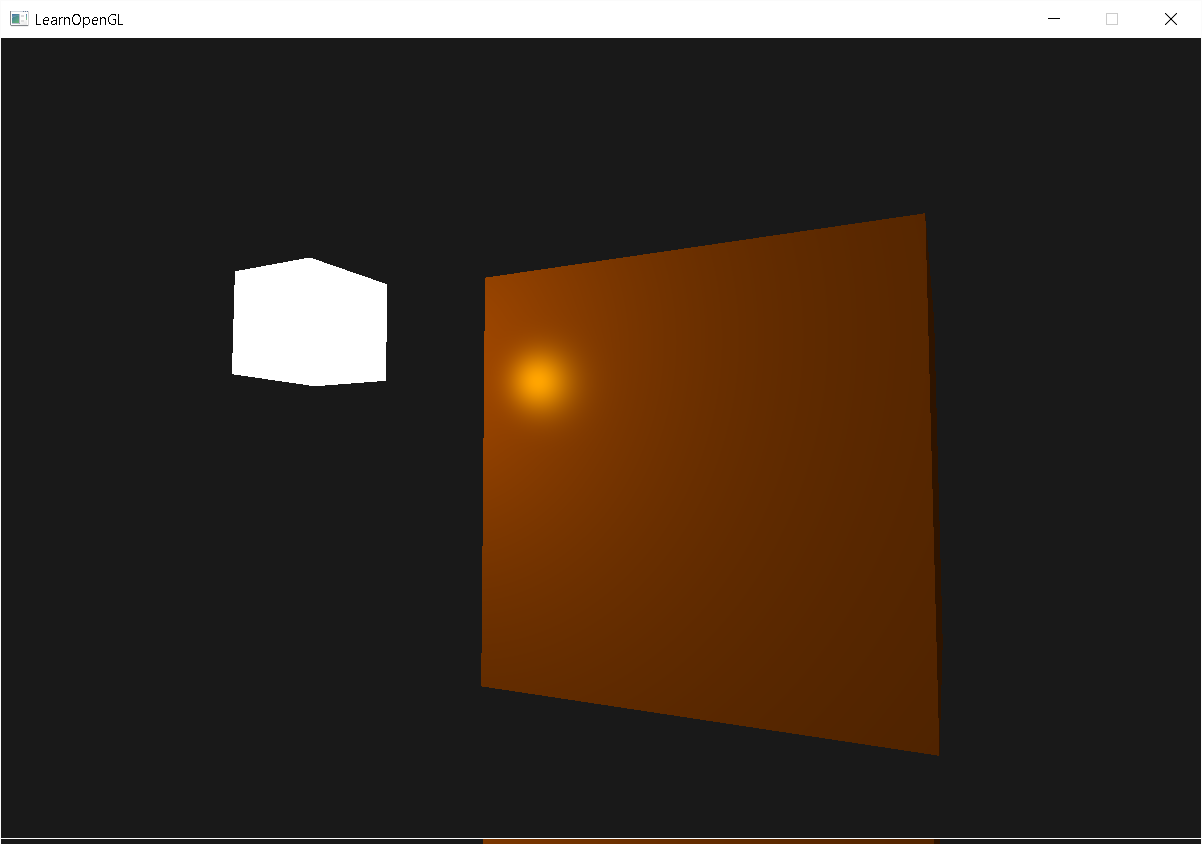
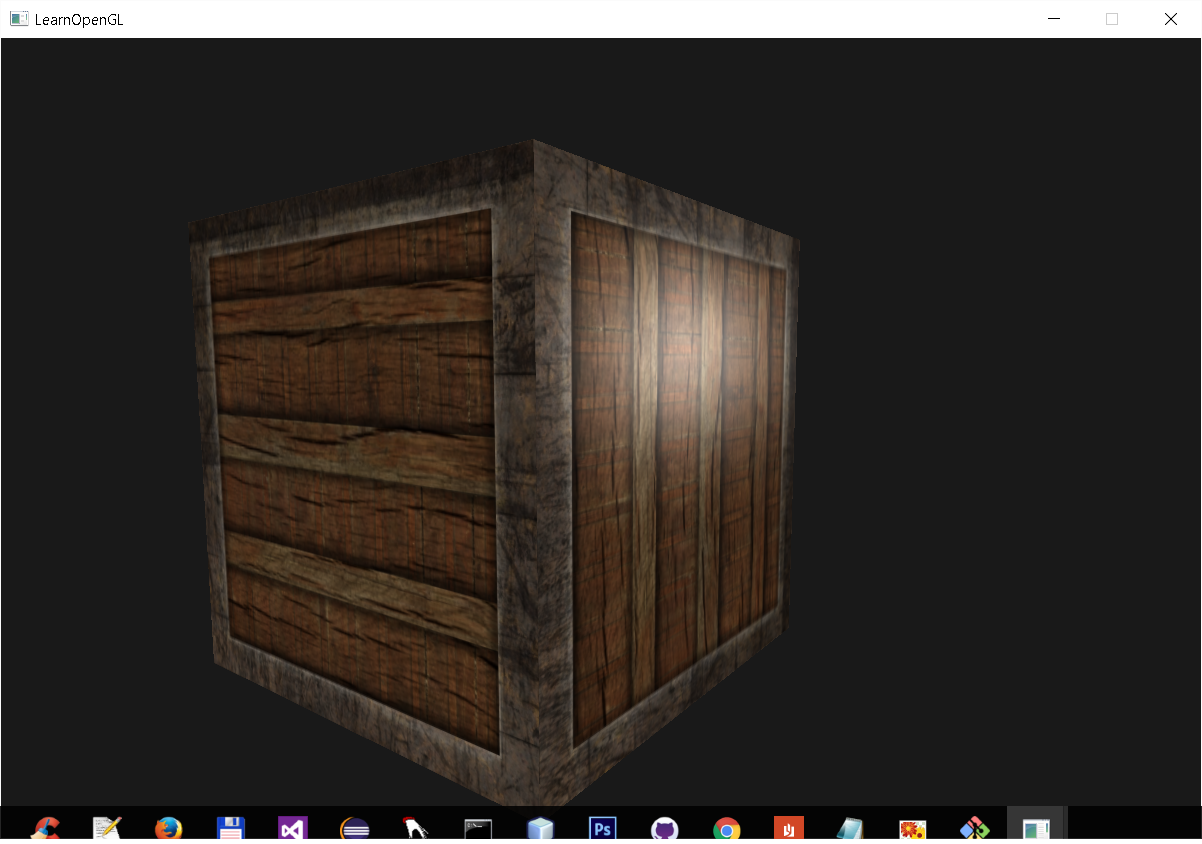
Now I have cool container with lighning and textures

diff --git a/OpenGlFirst/Test.cpp b/OpenGlFirst/Test.cpp
@@ -85,51 +85,50 @@ int main()
 		Shader lampShader("C:\\Users\\Vadim\\Documents\\Visual Studio 2012\\Projects\\OpenGlFirst\\shaders\\lamp.vs", 
 		"C:\\Users\\Vadim\\Documents\\Visual Studio 2012\\Projects\\OpenGlFirst\\shaders\\lamp.frag");
 
-    // Set up vertex data (and buffer(s)) and attribute pointers
-    GLfloat vertices[] = {
-		// Coords			 // Normals
-        -0.5f, -0.5f, -0.5f,  0.0f,  0.0f, -1.0f,
-         0.5f, -0.5f, -0.5f,  0.0f,  0.0f, -1.0f,
-         0.5f,  0.5f, -0.5f,  0.0f,  0.0f, -1.0f,
-         0.5f,  0.5f, -0.5f,  0.0f,  0.0f, -1.0f,
-        -0.5f,  0.5f, -0.5f,  0.0f,  0.0f, -1.0f,
-        -0.5f, -0.5f, -0.5f,  0.0f,  0.0f, -1.0f,
+  GLfloat vertices[] = {
+    // Positions           // Normals           // Texture Coords
+    -0.5f, -0.5f, -0.5f,  0.0f,  0.0f, -1.0f,  0.0f, 0.0f,
+     0.5f, -0.5f, -0.5f,  0.0f,  0.0f, -1.0f,  1.0f, 0.0f,
+     0.5f,  0.5f, -0.5f,  0.0f,  0.0f, -1.0f,  1.0f, 1.0f,
+     0.5f,  0.5f, -0.5f,  0.0f,  0.0f, -1.0f,  1.0f, 1.0f,
+    -0.5f,  0.5f, -0.5f,  0.0f,  0.0f, -1.0f,  0.0f, 1.0f,
+    -0.5f, -0.5f, -0.5f,  0.0f,  0.0f, -1.0f,  0.0f, 0.0f,
 
-        -0.5f, -0.5f,  0.5f,  0.0f,  0.0f,  1.0f,
-         0.5f, -0.5f,  0.5f,  0.0f,  0.0f,  1.0f,
-         0.5f,  0.5f,  0.5f,  0.0f,  0.0f,  1.0f,
-         0.5f,  0.5f,  0.5f,  0.0f,  0.0f,  1.0f,
-        -0.5f,  0.5f,  0.5f,  0.0f,  0.0f,  1.0f,
-        -0.5f, -0.5f,  0.5f,  0.0f,  0.0f,  1.0f,
+    -0.5f, -0.5f,  0.5f,  0.0f,  0.0f, 1.0f,   0.0f, 0.0f,
+     0.5f, -0.5f,  0.5f,  0.0f,  0.0f, 1.0f,   1.0f, 0.0f,
+     0.5f,  0.5f,  0.5f,  0.0f,  0.0f, 1.0f,   1.0f, 1.0f,
+     0.5f,  0.5f,  0.5f,  0.0f,  0.0f, 1.0f,   1.0f, 1.0f,
+    -0.5f,  0.5f,  0.5f,  0.0f,  0.0f, 1.0f,   0.0f, 1.0f,
+    -0.5f, -0.5f,  0.5f,  0.0f,  0.0f, 1.0f,   0.0f, 0.0f,
 
-        -0.5f,  0.5f,  0.5f, -1.0f,  0.0f,  0.0f,
-        -0.5f,  0.5f, -0.5f, -1.0f,  0.0f,  0.0f,
-        -0.5f, -0.5f, -0.5f, -1.0f,  0.0f,  0.0f,
-        -0.5f, -0.5f, -0.5f, -1.0f,  0.0f,  0.0f,
-        -0.5f, -0.5f,  0.5f, -1.0f,  0.0f,  0.0f,
-        -0.5f,  0.5f,  0.5f, -1.0f,  0.0f,  0.0f,
+    -0.5f,  0.5f,  0.5f, -1.0f,  0.0f,  0.0f,  1.0f, 0.0f,
+    -0.5f,  0.5f, -0.5f, -1.0f,  0.0f,  0.0f,  1.0f, 1.0f,
+    -0.5f, -0.5f, -0.5f, -1.0f,  0.0f,  0.0f,  0.0f, 1.0f,
+    -0.5f, -0.5f, -0.5f, -1.0f,  0.0f,  0.0f,  0.0f, 1.0f,
+    -0.5f, -0.5f,  0.5f, -1.0f,  0.0f,  0.0f,  0.0f, 0.0f,
+    -0.5f,  0.5f,  0.5f, -1.0f,  0.0f,  0.0f,  1.0f, 0.0f,
 
-         0.5f,  0.5f,  0.5f,  1.0f,  0.0f,  0.0f,
-         0.5f,  0.5f, -0.5f,  1.0f,  0.0f,  0.0f,
-         0.5f, -0.5f, -0.5f,  1.0f,  0.0f,  0.0f,
-         0.5f, -0.5f, -0.5f,  1.0f,  0.0f,  0.0f,
-         0.5f, -0.5f,  0.5f,  1.0f,  0.0f,  0.0f,
-         0.5f,  0.5f,  0.5f,  1.0f,  0.0f,  0.0f,
+     0.5f,  0.5f,  0.5f,  1.0f,  0.0f,  0.0f,  1.0f, 0.0f,
+     0.5f,  0.5f, -0.5f,  1.0f,  0.0f,  0.0f,  1.0f, 1.0f,
+     0.5f, -0.5f, -0.5f,  1.0f,  0.0f,  0.0f,  0.0f, 1.0f,
+     0.5f, -0.5f, -0.5f,  1.0f,  0.0f,  0.0f,  0.0f, 1.0f,
+     0.5f, -0.5f,  0.5f,  1.0f,  0.0f,  0.0f,  0.0f, 0.0f,
+     0.5f,  0.5f,  0.5f,  1.0f,  0.0f,  0.0f,  1.0f, 0.0f,
 
-        -0.5f, -0.5f, -0.5f,  0.0f, -1.0f,  0.0f,
-         0.5f, -0.5f, -0.5f,  0.0f, -1.0f,  0.0f,
-         0.5f, -0.5f,  0.5f,  0.0f, -1.0f,  0.0f,
-         0.5f, -0.5f,  0.5f,  0.0f, -1.0f,  0.0f,
-        -0.5f, -0.5f,  0.5f,  0.0f, -1.0f,  0.0f,
-        -0.5f, -0.5f, -0.5f,  0.0f, -1.0f,  0.0f,
+    -0.5f, -0.5f, -0.5f,  0.0f, -1.0f,  0.0f,  0.0f, 1.0f,
+     0.5f, -0.5f, -0.5f,  0.0f, -1.0f,  0.0f,  1.0f, 1.0f,
+     0.5f, -0.5f,  0.5f,  0.0f, -1.0f,  0.0f,  1.0f, 0.0f,
+     0.5f, -0.5f,  0.5f,  0.0f, -1.0f,  0.0f,  1.0f, 0.0f,
+    -0.5f, -0.5f,  0.5f,  0.0f, -1.0f,  0.0f,  0.0f, 0.0f,
+    -0.5f, -0.5f, -0.5f,  0.0f, -1.0f,  0.0f,  0.0f, 1.0f,
 
-        -0.5f,  0.5f, -0.5f,  0.0f,  1.0f,  0.0f,
-         0.5f,  0.5f, -0.5f,  0.0f,  1.0f,  0.0f,
-         0.5f,  0.5f,  0.5f,  0.0f,  1.0f,  0.0f,
-         0.5f,  0.5f,  0.5f,  0.0f,  1.0f,  0.0f,
-        -0.5f,  0.5f,  0.5f,  0.0f,  1.0f,  0.0f,
-        -0.5f,  0.5f, -0.5f,  0.0f,  1.0f,  0.0f
-    };
+    -0.5f,  0.5f, -0.5f,  0.0f,  1.0f,  0.0f,  0.0f, 1.0f,
+     0.5f,  0.5f, -0.5f,  0.0f,  1.0f,  0.0f,  1.0f, 1.0f,
+     0.5f,  0.5f,  0.5f,  0.0f,  1.0f,  0.0f,  1.0f, 0.0f,
+     0.5f,  0.5f,  0.5f,  0.0f,  1.0f,  0.0f,  1.0f, 0.0f,
+    -0.5f,  0.5f,  0.5f,  0.0f,  1.0f,  0.0f,  0.0f, 0.0f,
+    -0.5f,  0.5f, -0.5f,  0.0f,  1.0f,  0.0f,  0.0f, 1.0f
+};
     // First, set the container's VAO (and VBO)
     GLuint VBO, containerVAO;
     glGenVertexArrays(1, &containerVAO);
@@ -140,12 +139,15 @@ int main()
 
     glBindVertexArray(containerVAO);
     // Position attribute
-    glVertexAttribPointer(0, 3, GL_FLOAT, GL_FALSE, 6 * sizeof(GLfloat), (GLvoid*)0);
+    glVertexAttribPointer(0, 3, GL_FLOAT, GL_FALSE, 8 * sizeof(GLfloat), (GLvoid*)0);
     glEnableVertexAttribArray(0);
     // Normal attribute
-    glVertexAttribPointer(1, 3, GL_FLOAT, GL_FALSE, 6 * sizeof(GLfloat), (GLvoid*)(3 * sizeof(GLfloat)));
-    glEnableVertexAttribArray(1);
-    glBindVertexArray(0);
+    glVertexAttribPointer(1, 3, GL_FLOAT, GL_FALSE, 8 * sizeof(GLfloat), (GLvoid*)(3 * sizeof(GLfloat)));
+	glEnableVertexAttribArray(1);
+	// Texture attribute
+	glVertexAttribPointer(2, 2, GL_FLOAT, GL_FALSE, 8 * sizeof(GLfloat), (GLvoid*)(6 * sizeof(GLfloat)));
+	glEnableVertexAttribArray(2);
+	glBindVertexArray(0);
 
     // Then, we set the light's VAO (VBO stays the same. After all, the vertices are the same for the light object (also a 3D cube))
     GLuint lightVAO;
@@ -154,11 +156,30 @@ int main()
     // We only need to bind to the VBO (to link it with glVertexAttribPointer), no need to fill it; the VBO's data already contains all we need.
     glBindBuffer(GL_ARRAY_BUFFER, VBO);
     // Set the vertex attributes (only position data for the lamp))
-    glVertexAttribPointer(0, 3, GL_FLOAT, GL_FALSE, 6 * sizeof(GLfloat), (GLvoid*)0); // Note that we skip over the normal vectors
+    glVertexAttribPointer(0, 3, GL_FLOAT, GL_FALSE, 8 * sizeof(GLfloat), (GLvoid*)0); // Note that we skip over the normal vectors
     glEnableVertexAttribArray(0);
     glBindVertexArray(0);
     
+		// Generate a texture
+ 		GLuint diffuseMap;		
+		glGenTextures(1, &diffuseMap);
+		int width, height;
+ 		unsigned char* image = SOIL_load_image("C:\\Users\\Vadim\\Documents\\Visual Studio 2012\\Projects\\OpenGlFirst\\images\\container2.png",
+ 			&width, &height, 0, SOIL_LOAD_RGB);
+		glBindTexture(GL_TEXTURE_2D, diffuseMap);
+		// Generate a text using the prev-ly loaded image.
+ 		glTexImage2D(GL_TEXTURE_2D, 0, GL_RGB, width, height, 0, GL_RGB,
+ 			GL_UNSIGNED_BYTE, image);
+		glGenerateMipmap(GL_TEXTURE_2D);
+		// Free the image mem and unbind the text obj.
+ 		SOIL_free_image_data(image);
+	    glTexParameteri(GL_TEXTURE_2D, GL_TEXTURE_WRAP_S, GL_REPEAT);
+		glTexParameteri(GL_TEXTURE_2D, GL_TEXTURE_WRAP_T, GL_REPEAT);
+		glTexParameteri(GL_TEXTURE_2D, GL_TEXTURE_MIN_FILTER, GL_LINEAR_MIPMAP_LINEAR);
+		glTexParameteri(GL_TEXTURE_2D, GL_TEXTURE_MAG_FILTER, GL_NEAREST_MIPMAP_NEAREST);
+ 		glBindTexture(GL_TEXTURE_2D, 0);
 
+	
     // Game loop
     while (!glfwWindowShouldClose(window))
     {
@@ -177,12 +198,12 @@ int main()
 
         // Use cooresponding shader when setting uniforms/drawing objects
         lightingShader.Use();
-        GLint objectColorLoc = glGetUniformLocation(lightingShader.Program, "objectColor");
+		// Set texture units
+		glUniform1i(glGetUniformLocation(lightingShader.Program, "material.diffuse"), 0);
+
         GLint lightColorLoc  = glGetUniformLocation(lightingShader.Program, "lightColor");
         GLint lightPosLoc    = glGetUniformLocation(lightingShader.Program, "lightPos");
 		// Newly created material specs.
-		GLint matAmbientLoc  = glGetUniformLocation(lightingShader.Program, "material.ambient");
-		GLint matDiffuseLoc  = glGetUniformLocation(lightingShader.Program, "material.diffuse");
 		GLint matSpecularLoc = glGetUniformLocation(lightingShader.Program, "material.specular");
 		GLint matShineLoc    = glGetUniformLocation(lightingShader.Program, "material.shininess");
 		
@@ -191,27 +212,10 @@ int main()
 		GLint lightDiffuseLoc  = glGetUniformLocation(lightingShader.Program, "light.diffuse");
 		GLint lightSpecularLoc = glGetUniformLocation(lightingShader.Program, "light.specular");
 		
-		glUniform3f(objectColorLoc, .9f, .8f, .0f);
-        glUniform3f(lightColorLoc,  1.f, 1.0f, 1.0f);
-		
-		glUniform3f(matAmbientLoc,  1.f, 0.5f, 0.31f);
-		glUniform3f(matDiffuseLoc,  1.f, 0.5f, 0.31f);
+		glUniform3f(lightColorLoc,  1.f, 1.0f, 1.0f);
 		glUniform3f(matSpecularLoc,  0.5f, 0.5f, 0.5f);
-		glUniform1f(matShineLoc,  64.0f);
+		glUniform1f(matShineLoc, 64.0f);
 	
-		glUniform3f(lightAmbientLoc,  .2f, 0.2f, 0.2f);
-		glUniform3f(lightDiffuseLoc,  0.5f, 0.5f, 0.5f);
-		glUniform3f(lightSpecularLoc,  1.f, 1.f, 1.f);
-	
-		// Make the lamp cube run circles around y-axis.
-		GLfloat xRotOffset, yRotOffset, zRotOffset, multiplier;
-		xRotOffset = cosf(glfwGetTime());
-		yRotOffset =  0.1f /*cosf(glfwGetTime())*cosf(glfwGetTime()) - 0.5f*/;
-		zRotOffset = sinf(glfwGetTime());
-		multiplier = 3.f;
-		glUniform3f(lightPosLoc,    xRotOffset* multiplier, yRotOffset*multiplier, zRotOffset*multiplier);
-
-
         // Create camera transformations
         glm::mat4 view;
         view = camera.GetViewMatrix();
@@ -226,6 +230,23 @@ int main()
 		// Pass the matrices to the shader
         glUniformMatrix4fv(viewLoc, 1, GL_FALSE, glm::value_ptr(view));
         glUniformMatrix4fv(projLoc, 1, GL_FALSE, glm::value_ptr(projection));
+
+		glUniform3f(lightAmbientLoc,  .2f, 0.2f, 0.2f);
+		glUniform3f(lightDiffuseLoc,  0.5f, 0.5f, 0.5f);
+		glUniform3f(lightSpecularLoc,  1.f, 1.f, 1.f);
+	
+		// Make the lamp cube run circles around y-axis.
+		GLfloat xRotOffset, yRotOffset, zRotOffset, multiplier;
+		xRotOffset = cosf(glfwGetTime());
+		yRotOffset =  0.1f /*cosf(glfwGetTime())*cosf(glfwGetTime()) - 0.5f*/;
+		zRotOffset = sinf(glfwGetTime());
+		multiplier = 3.f;
+		glUniform3f(lightPosLoc,    xRotOffset* multiplier, yRotOffset*multiplier, zRotOffset*multiplier);
+
+
+		// Bind diffuse map
+		glActiveTexture(GL_TEXTURE0);
+		glBindTexture(GL_TEXTURE_2D, diffuseMap);
 
         // Draw the container (using container's vertex attributes)
         glBindVertexArray(containerVAO);
